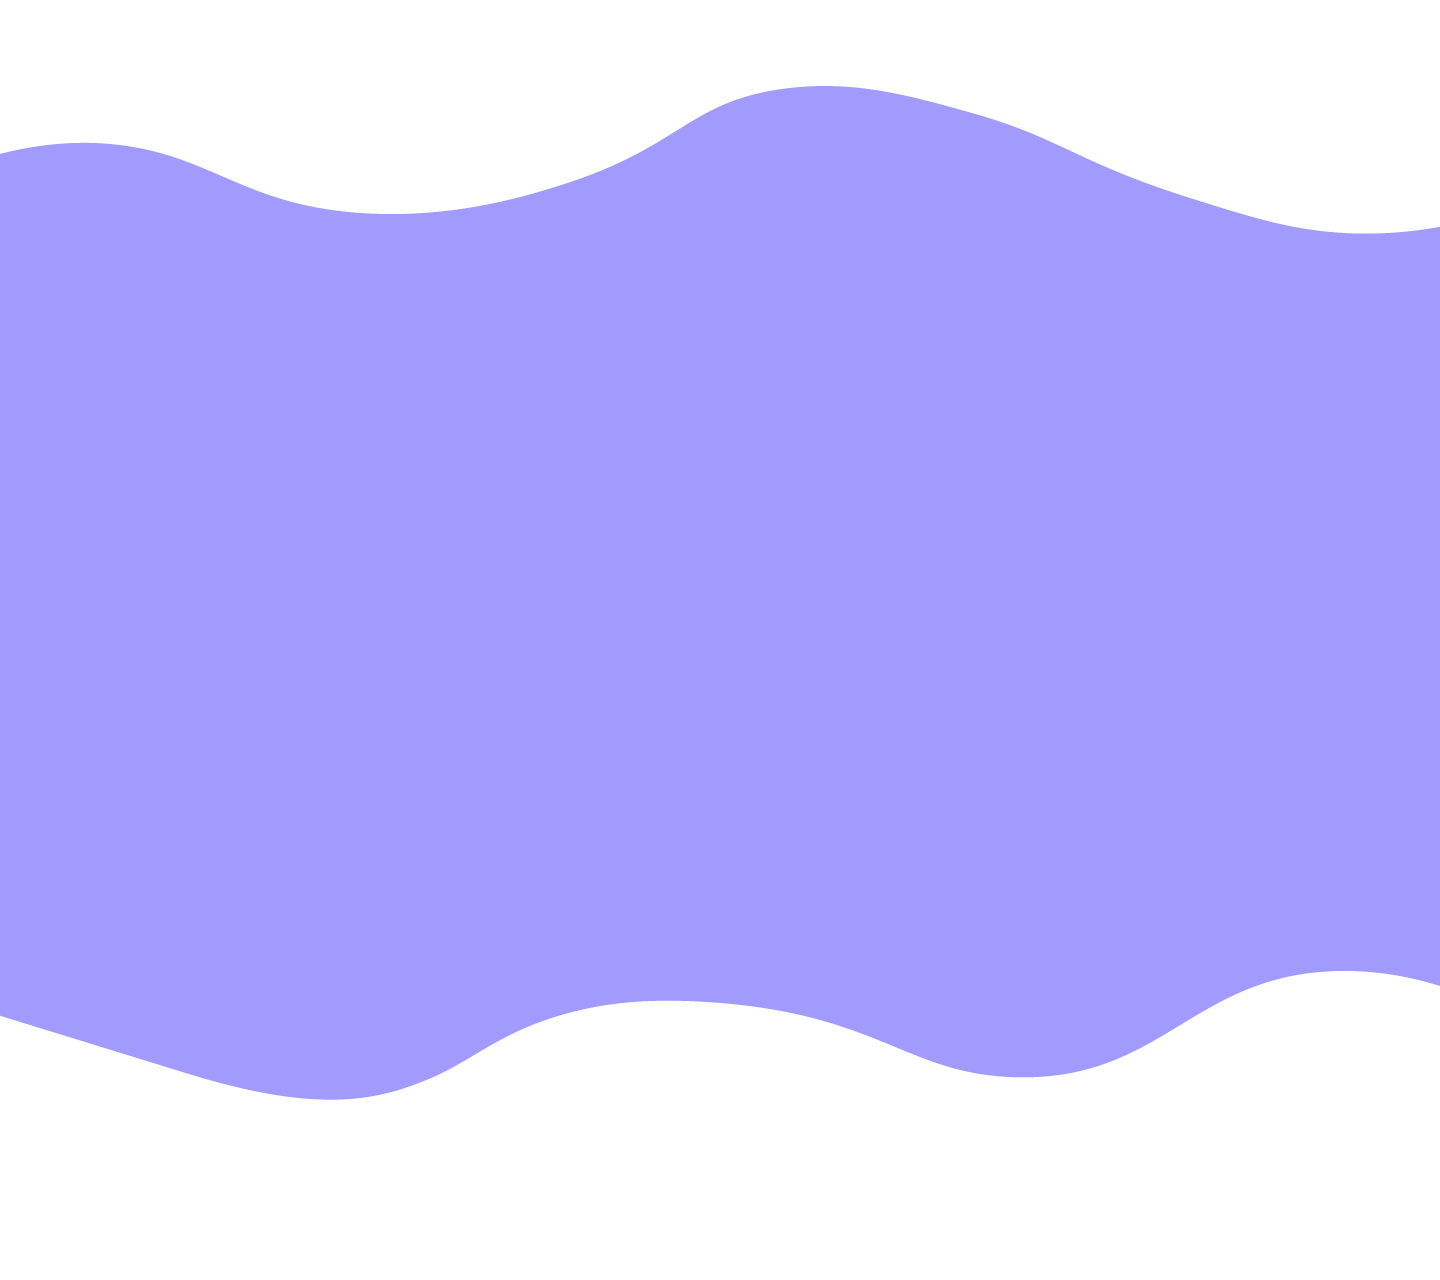
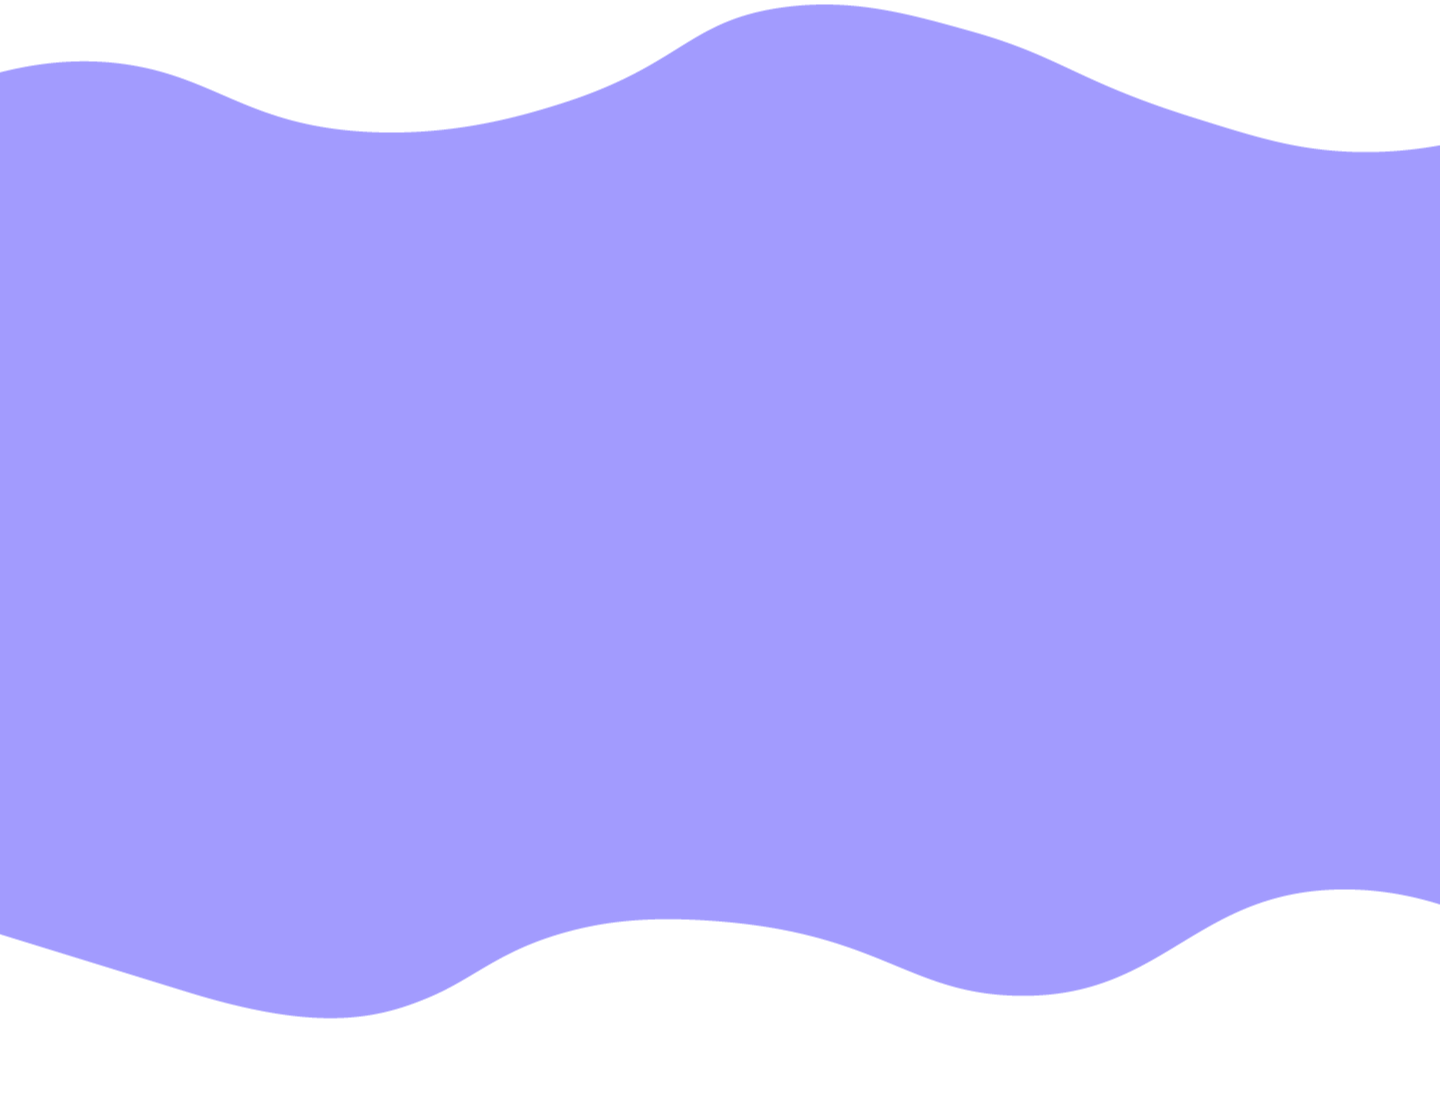
Fix home page style

Changed region(s): [[0.0, 0.0, 1.0, 0.1826], [0.0, 0.761, 1.0, 0.9132]]

diff --git a/frontend/src/pages/Home/Home.css b/frontend/src/pages/Home/Home.css
@@ -1,8 +1,11 @@
 @media (min-width: 1440px) {
   .home {
-    max-width: 1240px;
+    max-width: 1270px;
     margin-left: auto;
     margin-right: auto;
+  }
+  .row {
+    min-height: 1024px;
   }
 }
 
@@ -13,11 +16,16 @@
 }
 
 .intro-1 img {
-  padding-top: 10rem;
+  padding-top: 12rem;
 }
 
 .intro-2 p {
   font-family: 'Kanit', sans-serif;
   font-size: large;
   color: #653C69;
+}
+
+.wave {
+  background-image: url('../../assets/intro-wave-1.png');
+  background-repeat: no-repeat;
 }
